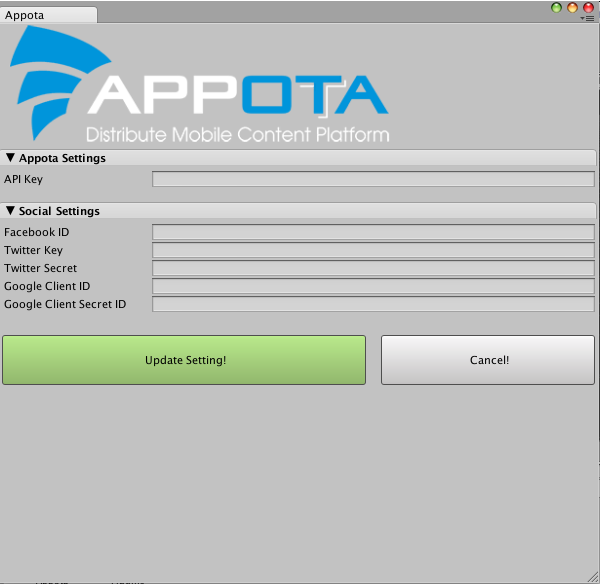
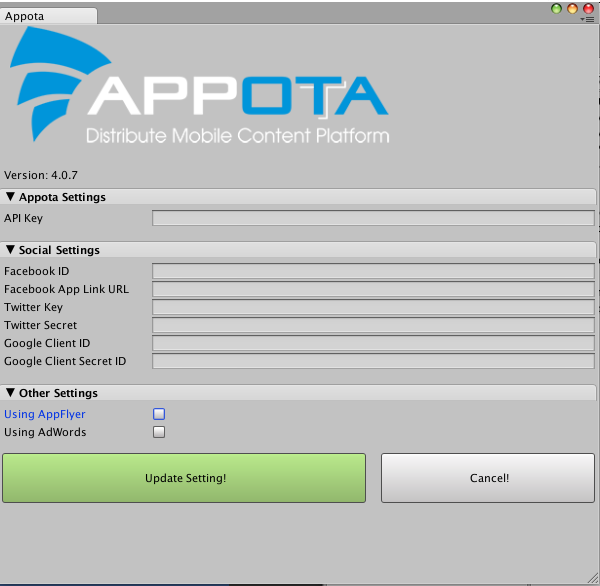
Update FBApplink

diff --git a/README.md b/README.md
@@ -45,6 +45,7 @@ Create new project from [https://console.developers.google.com](https://console.
 ####1.3.2. Configure Unity project
 
 - Use `FacebookAppID`, `ApiKey`, `GoogleClientID`, `GoogleClientSecret` has created in [IntegrateSDK](#head1-integrate-sdk) to update setting
+- Create your `Facebook App Link URL` to have new `Facebook Invite` function inside your SDK ([Create Facebook AppLink URL](https://developers.facebook.com/quickstarts/?platform=app-links-host))
 
 <img src="images/config.png" style="width:400;height:400">
 
